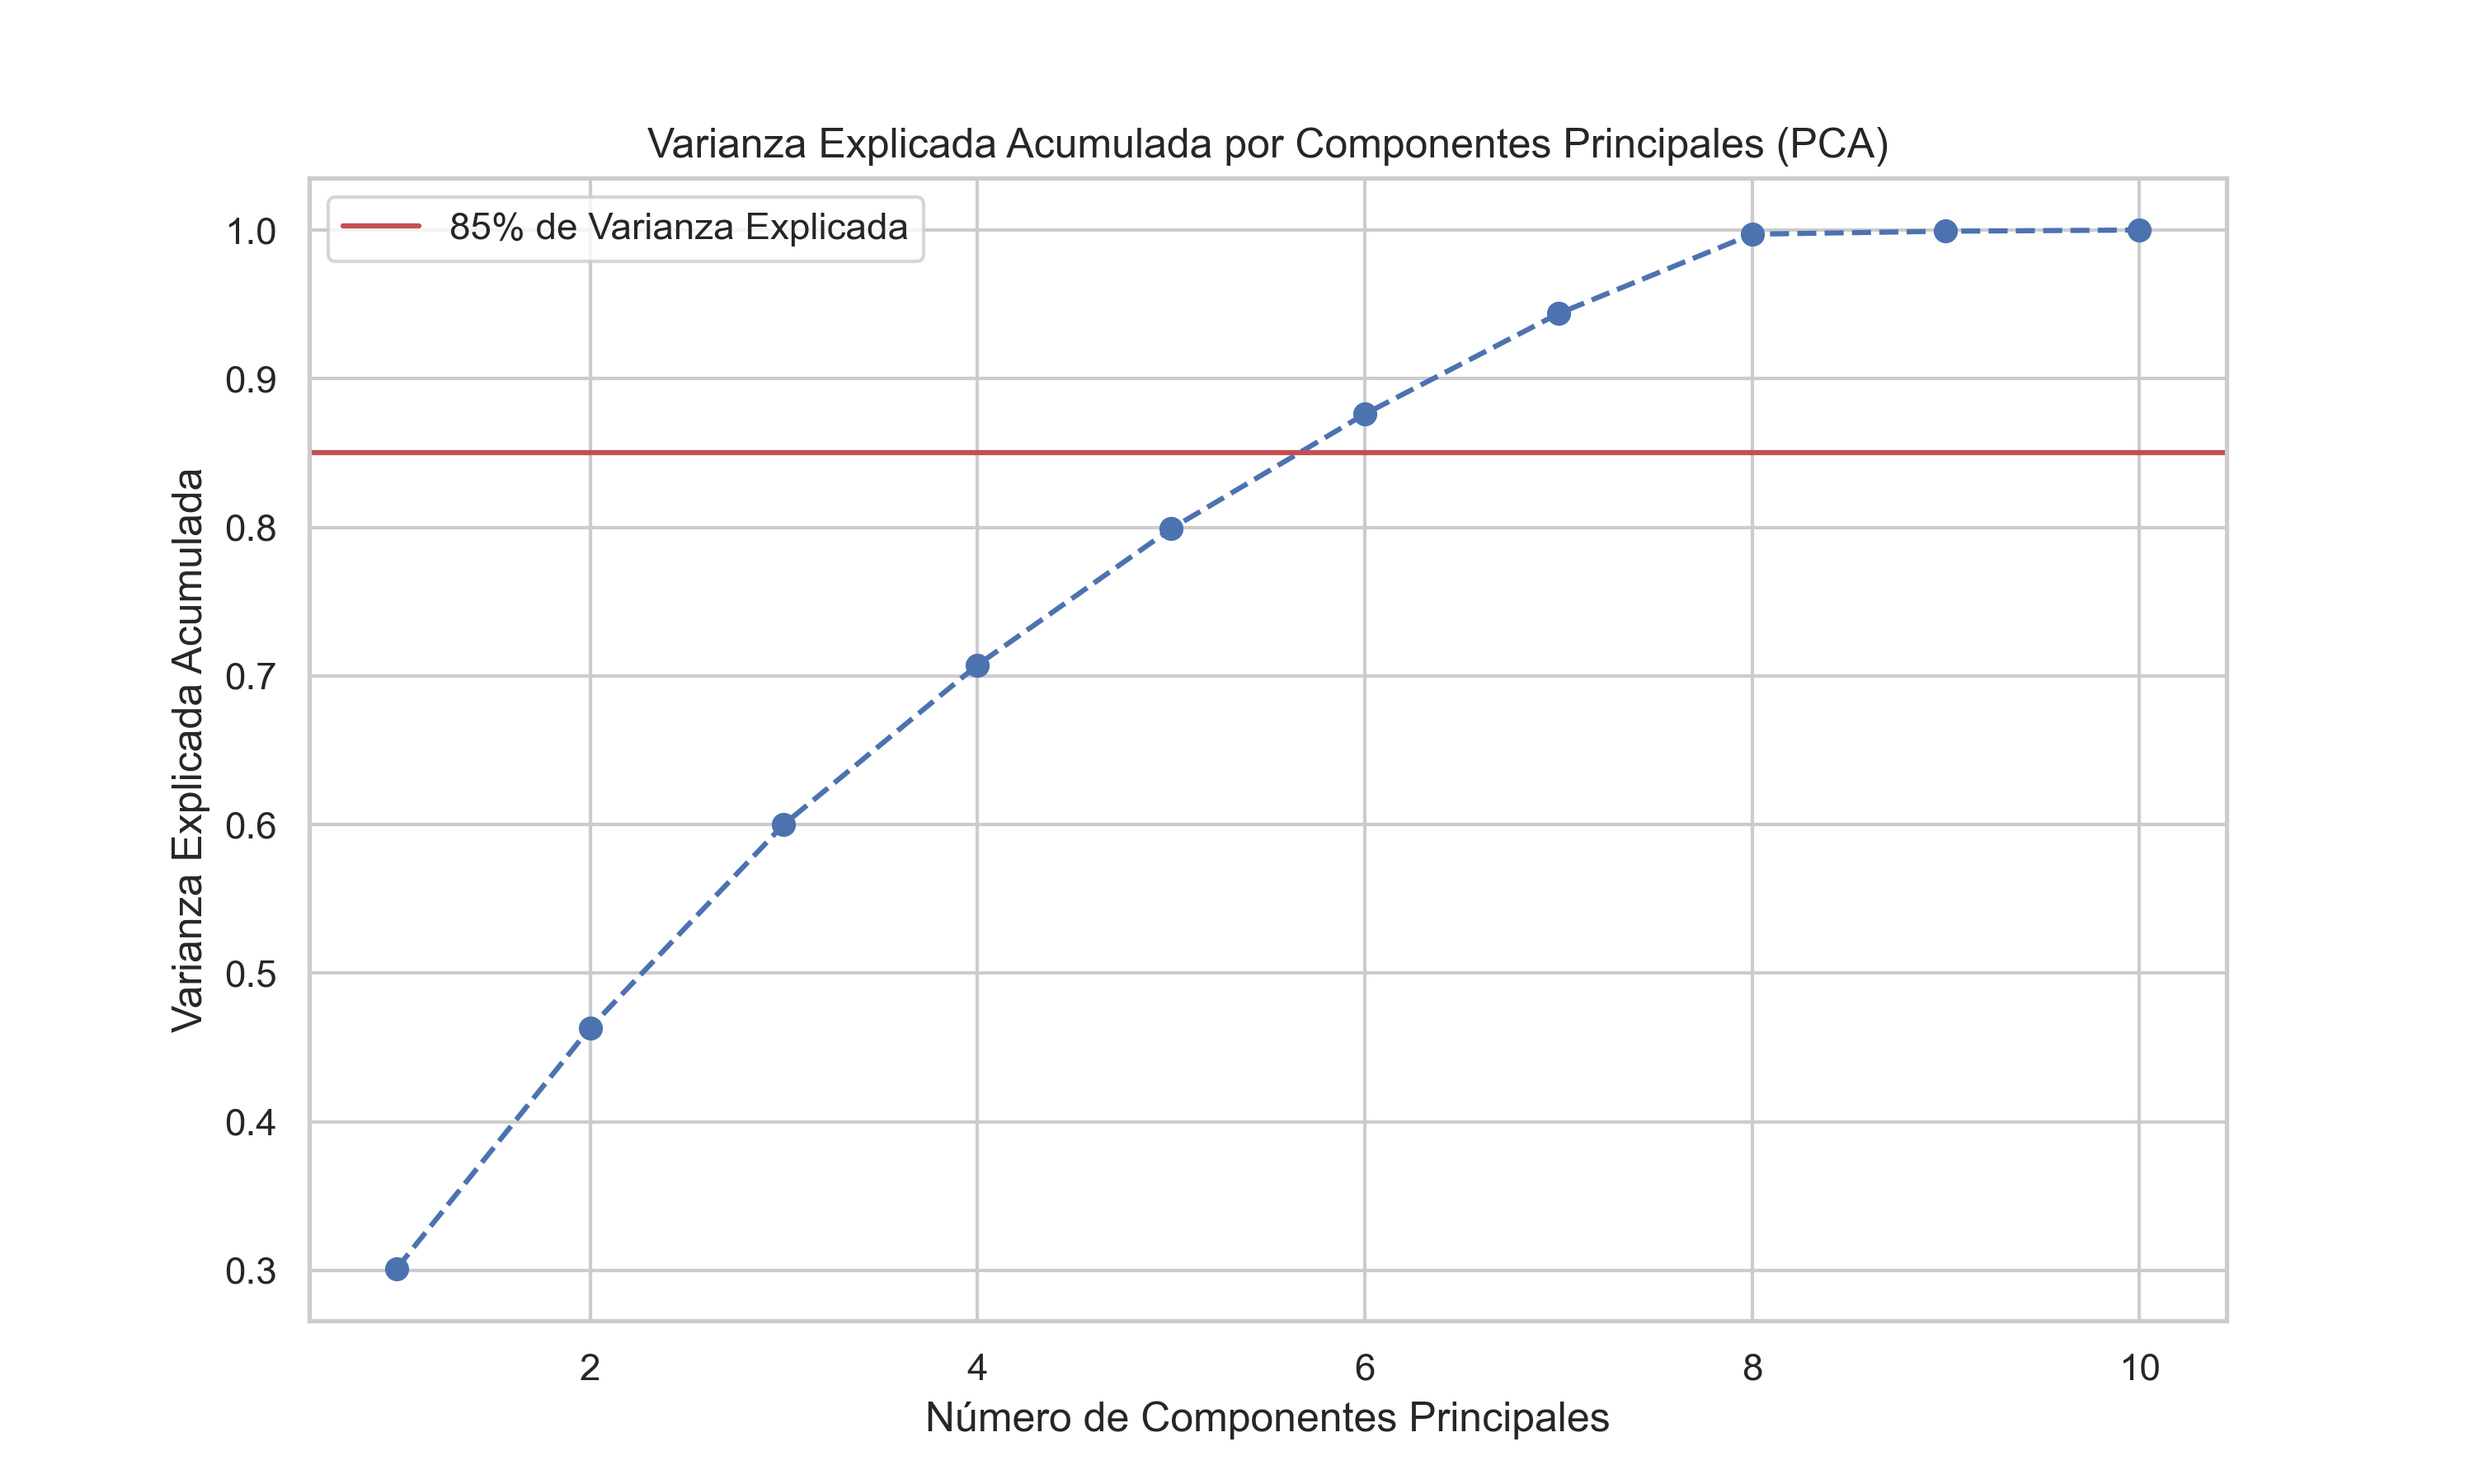
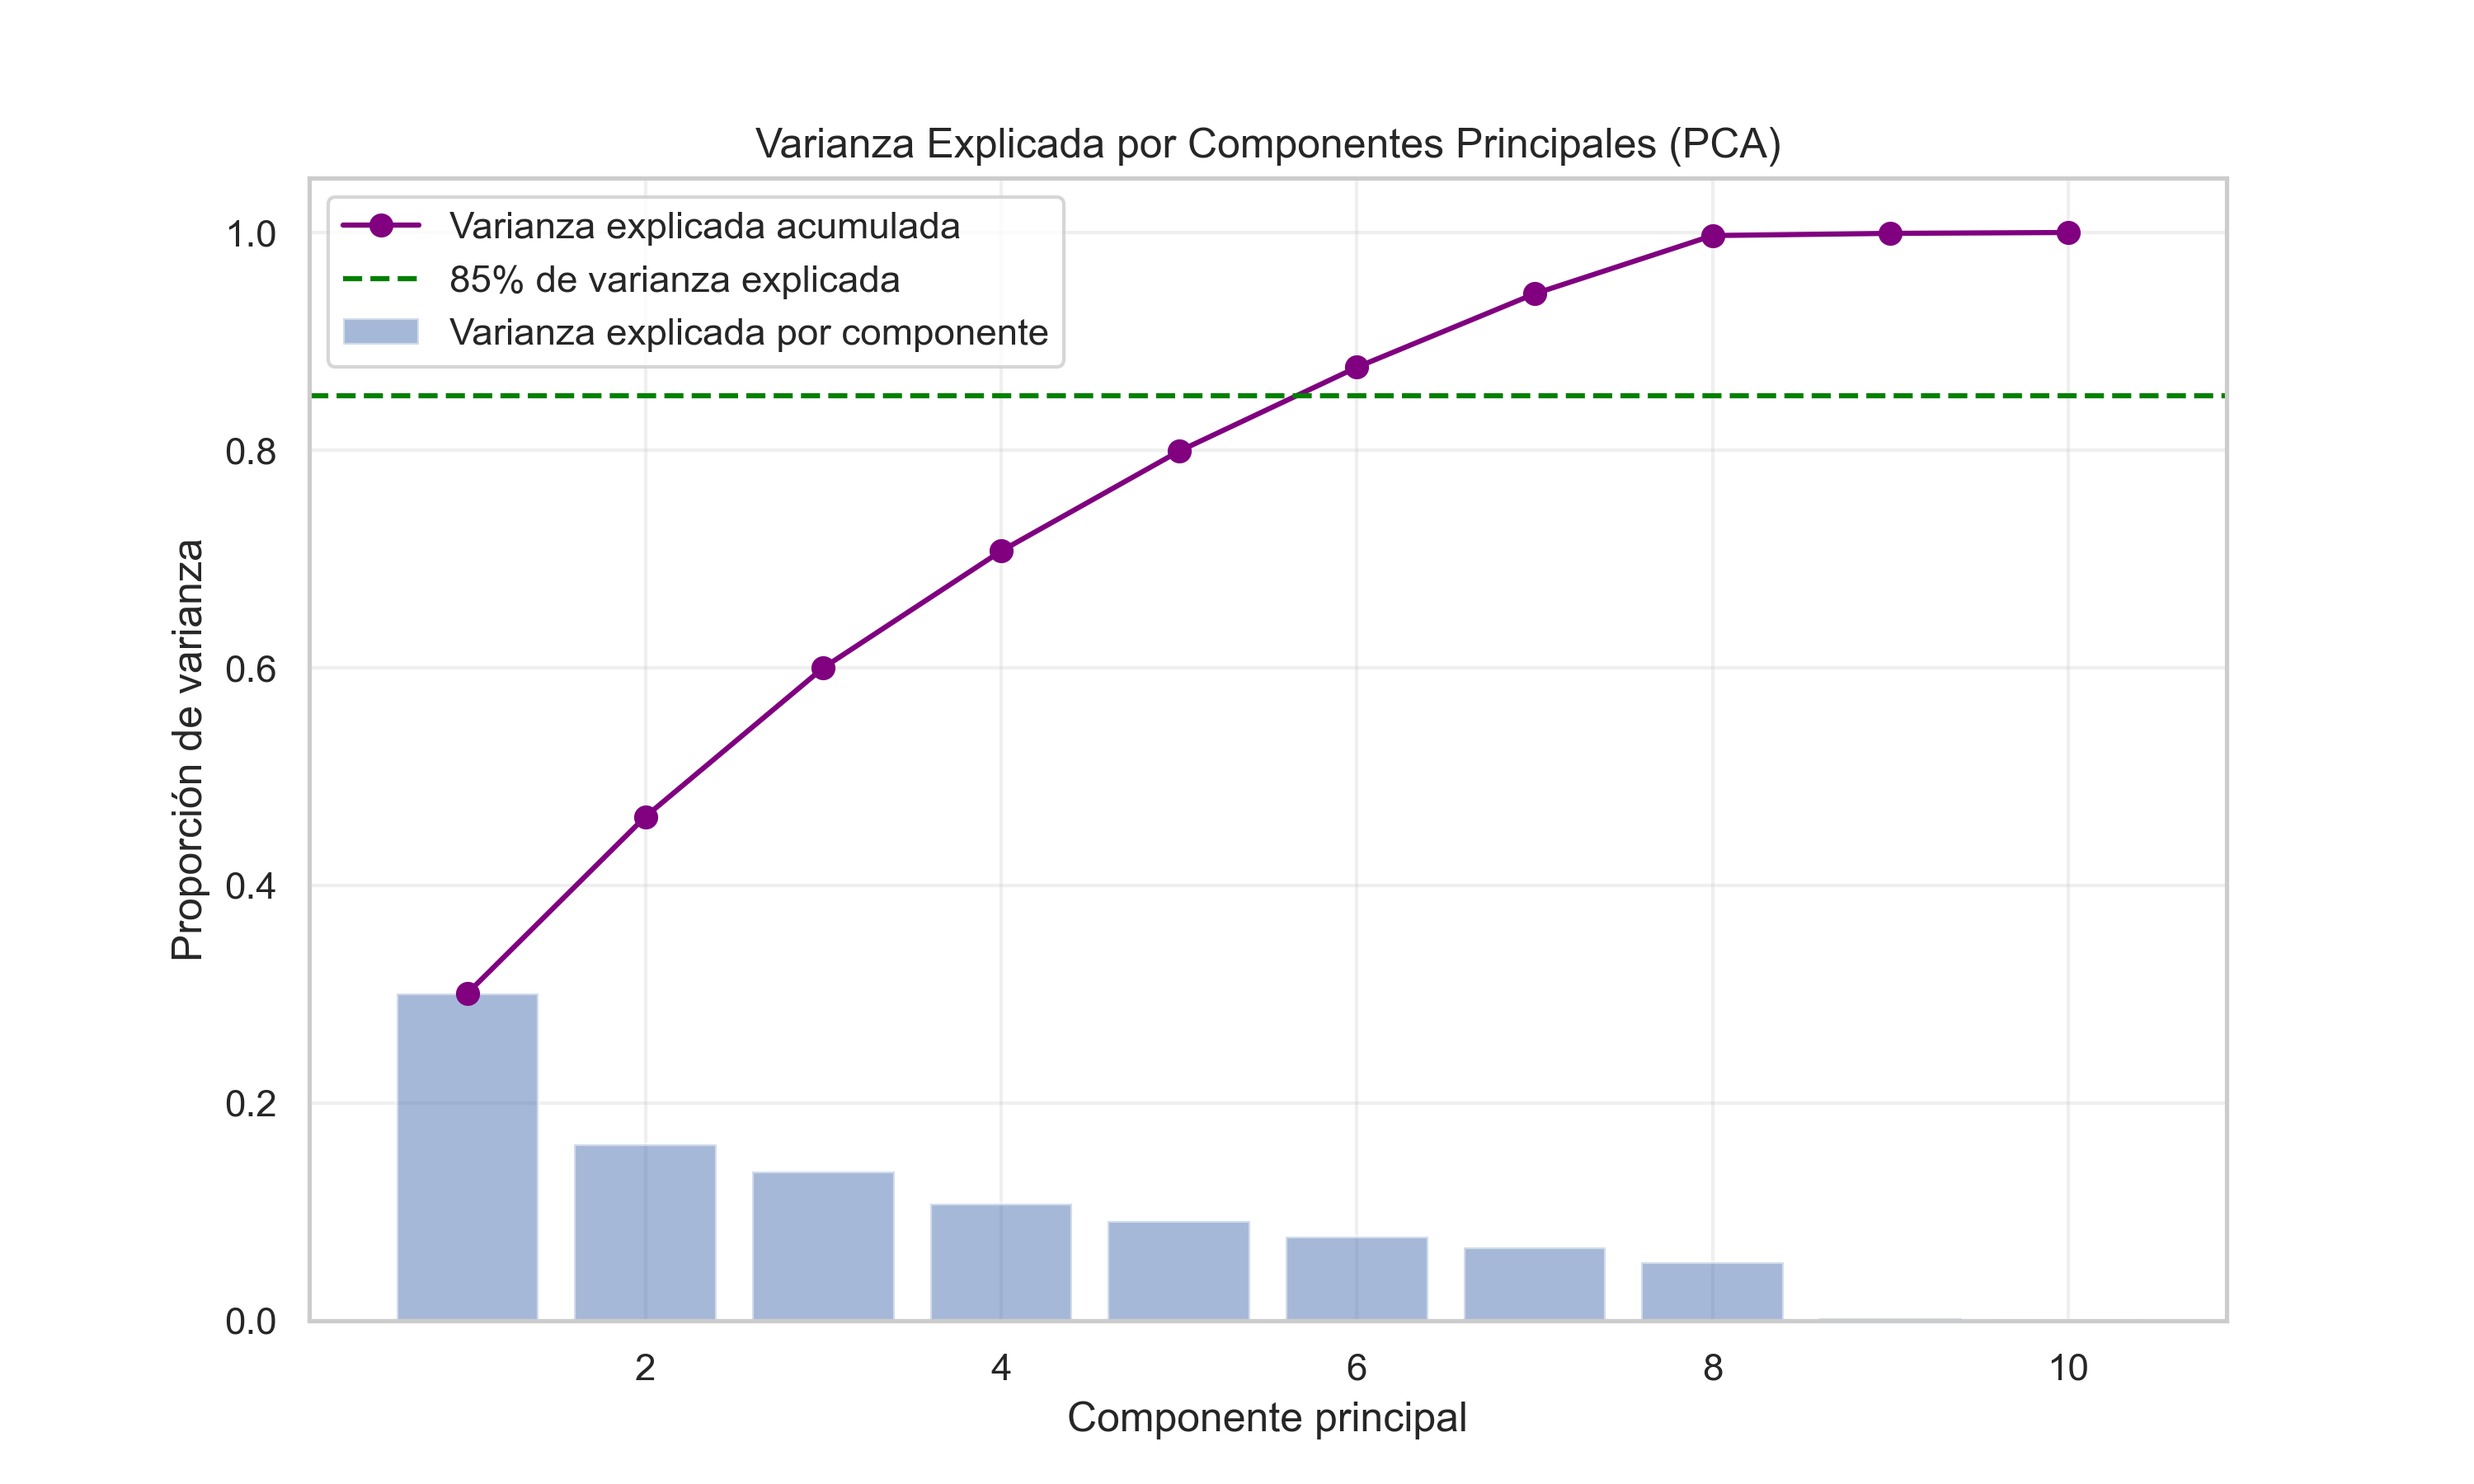
pca y kmeans

diff --git a/Codigos/modelado.py b/Codigos/modelado.py
@@ -15,6 +15,7 @@ import os
 from sklearn.preprocessing import StandardScaler
 from sklearn.decomposition import PCA
 from sklearn.cluster import KMeans
+from sklearn.metrics import silhouette_score
 
 #Confuguración de pandas
 pd.set_option('display.max_columns', None)
@@ -41,25 +42,154 @@ print(df_scaled.head())
 #--- Reducción de dimensionalidad con PCA ---
 #Aplicamos PCA para reducir la dimensionalidad de los datos y facilitar la visualización y el clustering.
 pca = PCA() 
-pca.fit(df_scaled)
+pca.fit_transform(df_scaled)
 
 #Calculamos la varianza explicada acumulada
 radio_var_explicada = np.cumsum(pca.explained_variance_ratio_)
+print("\n --- Varianza explicada acumulada por componentes principales ---")
+for i, v in enumerate(radio_var_explicada, start=1):
+    print(f"Componente {i}: {v:.4f}")
 
 #Gráfica de la varianza explicada acumulada
 plt.figure(figsize=(10, 6))
-plt.plot(range(1, len(radio_var_explicada) + 1), radio_var_explicada, marker='o', linestyle='--')
-plt.title('Varianza Explicada Acumulada por Componentes Principales (PCA)')
-plt.xlabel('Número de Componentes Principales')
-plt.ylabel('Varianza Explicada Acumulada')
-plt.grid(True)
-plt.axhline(y=0.85, color='r', linestyle='-', label='85% de Varianza Explicada')
+#Barras: varianza explicada por cada componente
+plt.bar(
+    range(1, len(pca.explained_variance_ratio_) + 1),
+    pca.explained_variance_ratio_,
+    alpha=0.5,
+    label='Varianza explicada por componente'
+)
+#Línea: varianza explicada acumulada
+plt.plot(
+    range(1, len(radio_var_explicada) + 1),
+    radio_var_explicada,
+    marker='o',
+    color='purple',
+    label='Varianza explicada acumulada'
+)
+plt.title('Varianza Explicada por Componentes Principales (PCA)')
+plt.xlabel('Componente principal')
+plt.ylabel('Proporción de varianza')
+plt.axhline(y=0.85, color='green', linestyle='--', label='85% de varianza explicada')
+plt.grid(True, alpha=0.3)
 plt.legend()
 plt.savefig('./Figures/varianza_explicada_pca.png', dpi=300)
+plt.tight_layout()
 plt.show()
 plt.close()
 
+
 #Decisión del número de componentes principales a retener
 #Retenemos los componentes que explican al menos el 85% de la varianza
-num_componentes = np.where(radio_var_explicada >= 0.85)[0][0] + 1
+umbral_varianza = 0.85
+num_componentes = np.where(radio_var_explicada >= umbral_varianza)[0][0] + 1
 print(f"\n Número de componentes principales retenidos para explicar al menos el 85% de la varianza: {num_componentes}")
+
+#Aplicamos PCA con el número seleccionado de componentes
+pca_final = PCA(n_components=num_componentes)
+df_pca = pca_final.fit_transform(df_scaled)
+df_pca = pd.DataFrame(df_pca, columns=[f'PC{i}' for i in range(1,num_componentes+1)])
+var_seleccionada = pca_final.explained_variance_ratio_.sum()
+print(f"Datos reducidos a {num_componentes} componentes principales (PCA). Varianza explicada total: {var_seleccionada:.4f}")
+
+#Contribución de las variables originales a los componentes principales
+loadings = pca_final.components_.T * np.sqrt(pca_final.explained_variance_)
+df_loadings = pd.DataFrame(loadings, index=df_clustering.columns, columns=[f'PC{i}' for i in range(1,num_componentes+1)])
+
+print("\n --- Loadings de las primeras componentes principales ---")
+print(df_loadings.iloc[:, min(4, num_componentes)])
+
+#Gráficos de los loadings para PC1 y PC2
+if num_componentes >= 2:
+    fig, axes = plt.subplots(1, 2, figsize=(14, 6))
+
+    # Loadings para PC1
+    axes[0].barh(df_clustering.columns, df_loadings['PC1'], color='skyblue')
+    axes[0].set_title('Loadings de las Variables para PC1')
+    axes[0].set_xlabel('Contribución')
+
+    # Loadings para PC2
+    axes[1].barh(df_clustering.columns, df_loadings['PC2'], color='lightgreen')
+    axes[1].set_title('Loadings de las Variables para PC2')
+    axes[1].set_xlabel('Contribución')
+
+    plt.tight_layout()
+    plt.savefig('./Figures/loadings_pc1_pc2.png', dpi=300)
+    plt.show()
+    plt.close()
+
+#--- Clustering con KMeans ---
+#Determinamos el número k óptimo de clusters usando el método del codo
+inercia = []
+k_range = range(2, 11)
+silhouette_values = []
+
+for k in k_range:
+    kmeans = KMeans(n_clusters=k, random_state=42, n_init='auto')
+    kmeans.fit(df_pca)
+    inercia.append(kmeans.inertia_)
+    score = silhouette_score(df_pca, kmeans.labels_)
+    silhouette_values.append(score)
+
+#Gráfica del método del codo
+plt.figure(figsize=(10, 6))
+plt.plot(k_range, inercia, marker='o', linestyle='--')
+plt.title('Método del Codo para Determinar el Número Óptimo de Clusters (KMeans)')
+plt.xlabel('Número de Clusters (k)')
+plt.ylabel('Inercia')
+plt.grid(True, alpha=0.3)
+plt.xticks(k_range)
+plt.tight_layout()
+plt.savefig('./Figures/metodo_del_codo_kmeans.png', dpi=300)
+plt.show()
+plt.close()
+
+#Gráfica del silhouette score vs k 
+plt.figure(figsize=(10, 6))
+plt.plot(k_range, silhouette_values, marker='o', linestyle='--', color='deeppink')
+plt.title('Silhouette Score vs Número de Clusters (KMeans)')
+plt.xlabel('Número de Clusters (k)')
+plt.ylabel('Silhouette Score')
+plt.grid(True, alpha=0.3)
+plt.xticks(k_range)
+plt.tight_layout()
+plt.savefig('./Figures/silhouette_score_kmeans.png', dpi=300)
+plt.show()
+plt.close()
+
+print("\n --- Resultados del método del codo y silhouette score ---")
+for k, s in zip(k_range, silhouette_values):
+    print(f"k={k}: Silhouette Score={s:.4f}")
+
+#Elección automática del número óptimo de clusters según Silhouette máximo
+optimal_k = k_range[int(np.argmax(silhouette_values))]
+print(f"\n Número óptimo de clusters seleccionado automáticamente según Silhouette Score: k={optimal_k}")
+
+
+#Ajuste final de KMeans con el número óptimo de clusters
+kmeans_final = KMeans(n_clusters=optimal_k, random_state=42, n_init='auto')
+clusters_final = kmeans_final.fit_predict(df_pca)
+
+#Añadimos la asignación de clusters al DataFrame original
+df_resultado = df_clustering.copy()
+df_resultado['Cluster'] = clusters_final
+
+#Visualización de los clusters en los primeros dos componentes principales
+if num_componentes >= 2:
+    plt.figure(figsize=(10, 8))
+    scatter = plt.scatter(
+        df_pca['PC1'], df_pca['PC2'],
+        c=clusters_final,
+        cmap='tab10',
+        alpha=0.6
+    )
+    plt.xlabel(f'PC1({pca_final.explained_variance_ratio_[0]:.2%} varianza)')
+    plt.ylabel(f'PC2({pca_final.explained_variance_ratio_[1]:.2%} varianza)')
+    plt.title('Clusters Identificados por KMeans en el Espacio PCA(PC1 vs PC2)')
+    plt.colorbar(scatter, label='Cluster')
+    plt.grid(True, alpha=0.3)
+    plt.savefig('./Figures/clusters_kmeans_pc1_pc2.png', dpi=300)
+    plt.tight_layout()
+    plt.show()
+    plt.close()
+
